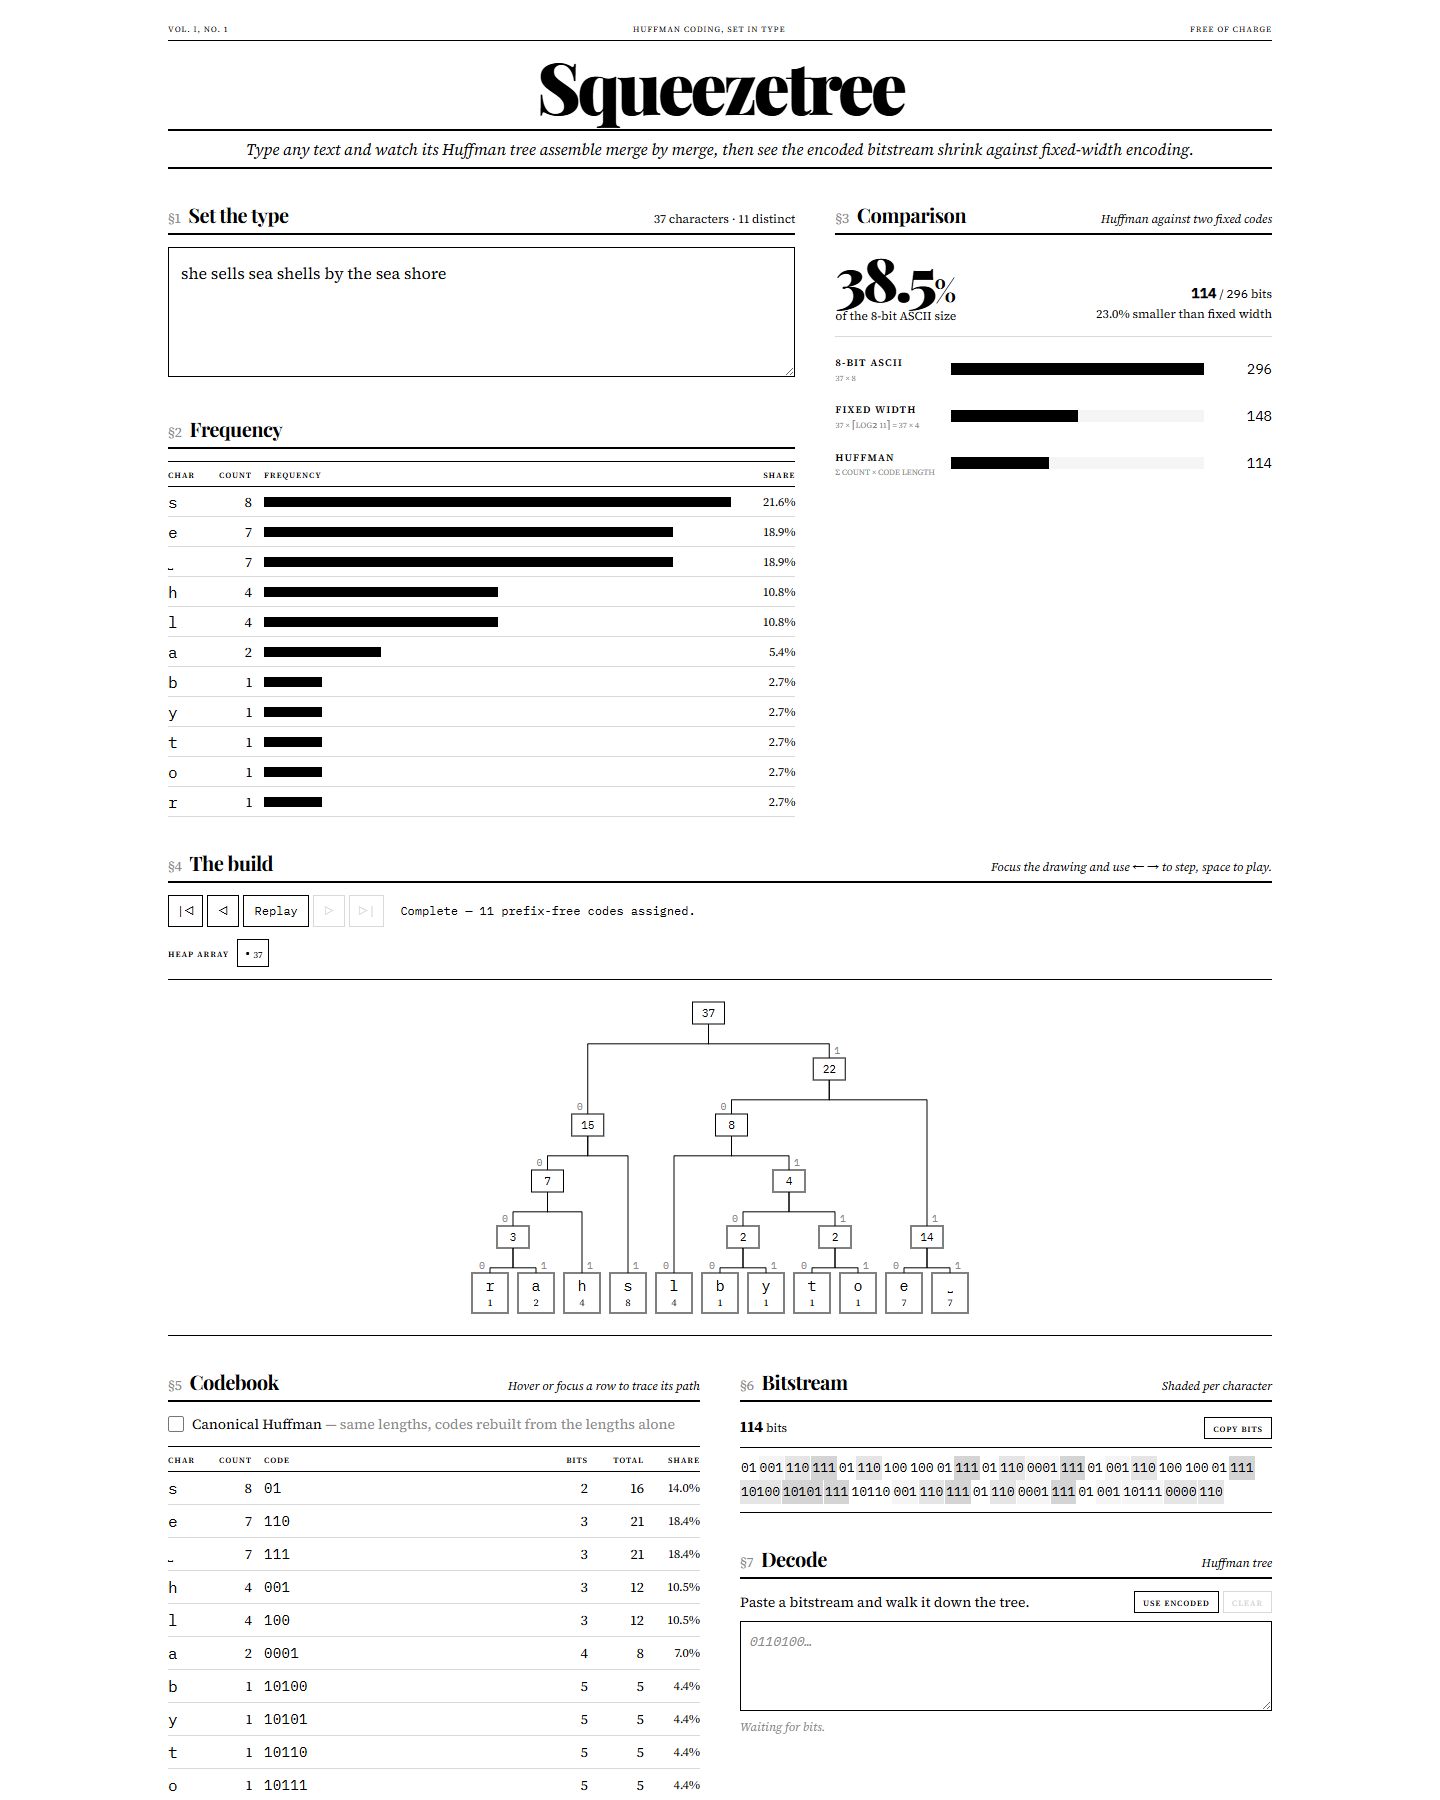
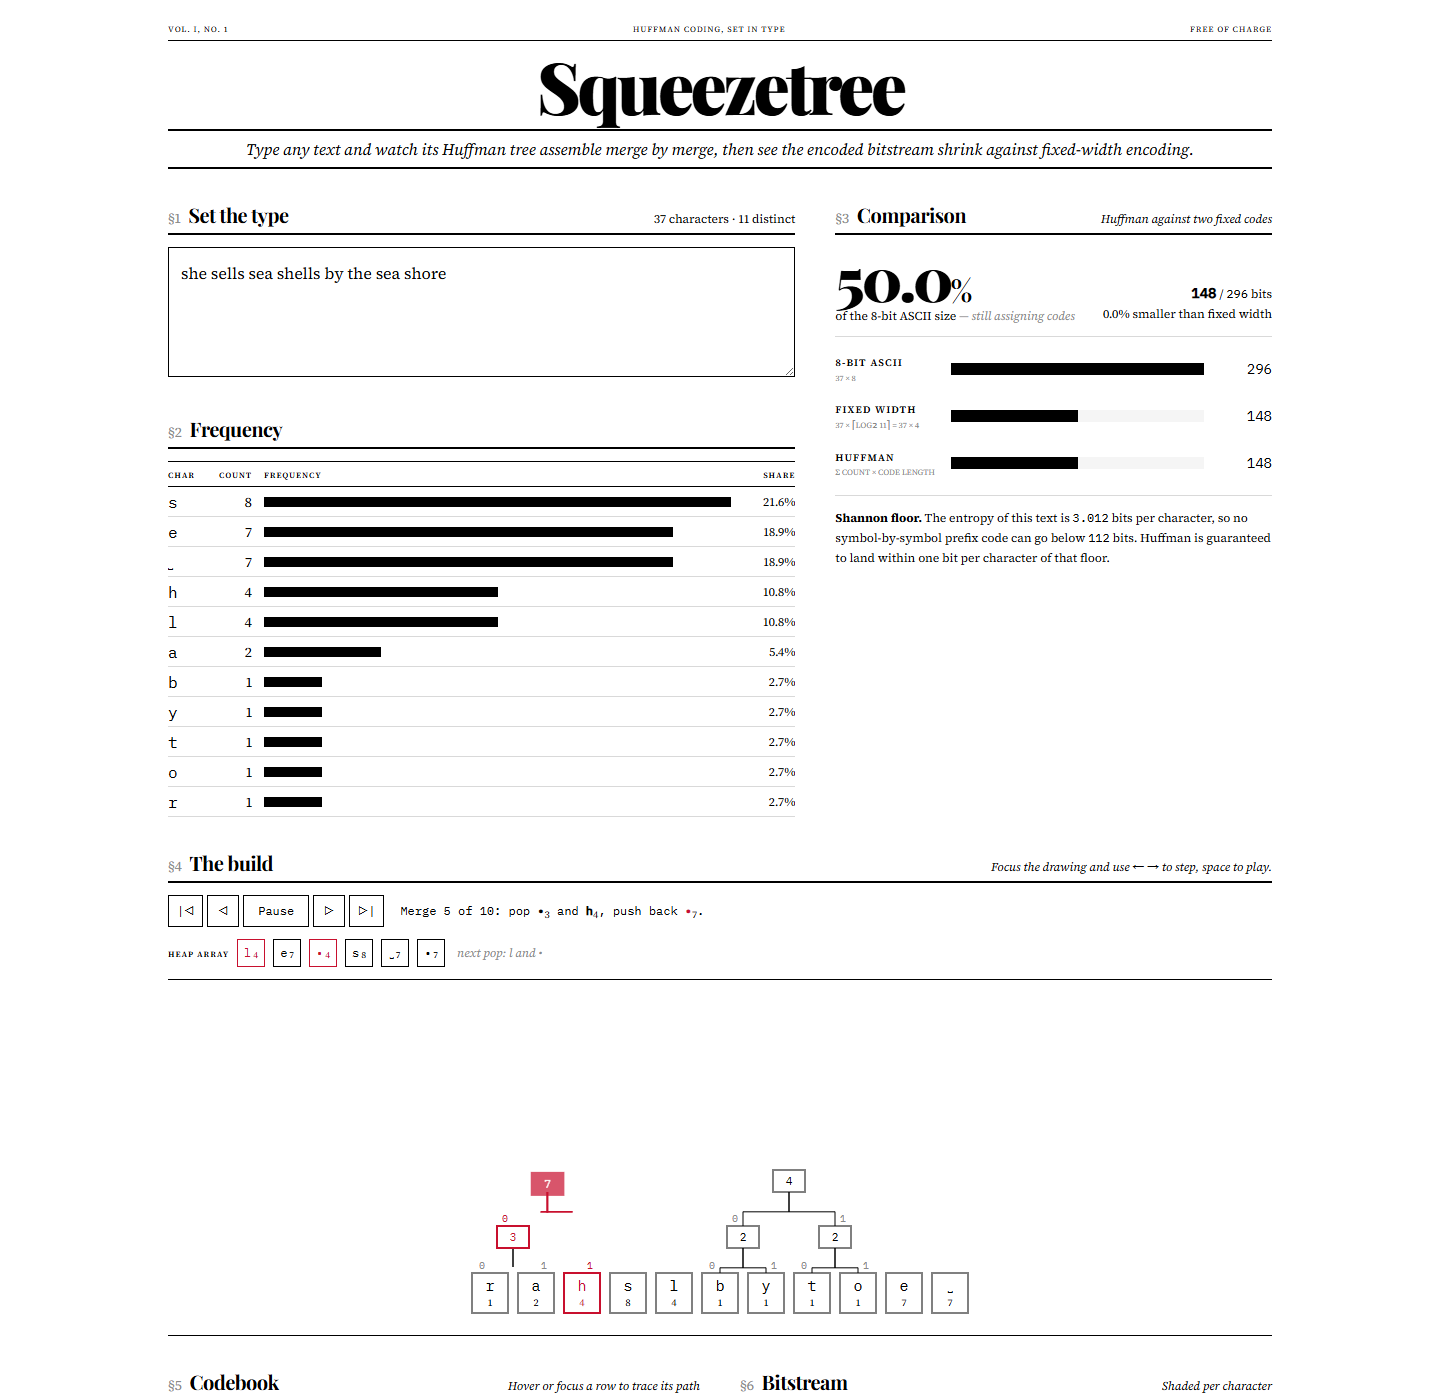
feat: shannon-floor note, adaptive build tempo, capped tables and centred wide trees

diff --git a/src/components/CodeTable.tsx b/src/components/CodeTable.tsx
@@ -45,30 +45,32 @@ export function CodeTable({ freq, shown, codes, fw, totalBits, canonical, onCano
             <span className="text-right">total</span>
             <span className="text-right">share</span>
           </div>
-          {rows.map(({ ch, count }) => {
-            const code = shown.get(ch) ?? null
-            const len = code ? code.length : fw
-            const hot = hoverChar === ch
-            return (
-              <div
-                key={ch}
-                tabIndex={0}
-                onMouseEnter={() => onHover(ch)}
-                onFocus={() => onHover(ch)}
-                onBlur={() => onHover(null)}
-                className={`grid ${cols} items-center border-b border-faint py-1 text-sm transition-colors focus-visible:outline-2 focus-visible:-outline-offset-2 focus-visible:outline-ink ${hot ? 'bg-neutral-100 font-semibold' : ''}`}
-              >
-                <span className="font-mono text-base">{glyph(ch)}</span>
-                <span className="text-right tabular-nums">{count}</span>
-                <span className="pl-3 font-mono tracking-wide">
-                  {code ?? <span className="text-faint">{'·'.repeat(fw)}</span>}
-                </span>
-                <span className={`text-right tabular-nums ${code ? '' : 'italic text-rule'}`}>{len}</span>
-                <span className={`text-right tabular-nums ${code ? '' : 'italic text-rule'}`}>{count * len}</span>
-                <span className="text-right tabular-nums text-xs">{pct(count * len, totalBits)}</span>
-              </div>
-            )
-          })}
+          <div className="max-h-[520px] overflow-y-auto">
+            {rows.map(({ ch, count }) => {
+              const code = shown.get(ch) ?? null
+              const len = code ? code.length : fw
+              const hot = hoverChar === ch
+              return (
+                <div
+                  key={ch}
+                  tabIndex={0}
+                  onMouseEnter={() => onHover(ch)}
+                  onFocus={() => onHover(ch)}
+                  onBlur={() => onHover(null)}
+                  className={`grid ${cols} items-center border-b border-faint py-1 text-sm transition-colors focus-visible:outline-2 focus-visible:-outline-offset-2 focus-visible:outline-ink ${hot ? 'bg-neutral-100 font-semibold' : ''}`}
+                >
+                  <span className="font-mono text-base">{glyph(ch)}</span>
+                  <span className="text-right tabular-nums">{count}</span>
+                  <span className="pl-3 font-mono tracking-wide">
+                    {code ?? <span className="text-faint">{'·'.repeat(fw)}</span>}
+                  </span>
+                  <span className={`text-right tabular-nums ${code ? '' : 'italic text-rule'}`}>{len}</span>
+                  <span className={`text-right tabular-nums ${code ? '' : 'italic text-rule'}`}>{count * len}</span>
+                  <span className="text-right tabular-nums text-xs">{pct(count * len, totalBits)}</span>
+                </div>
+              )
+            })}
+          </div>
           <div className={`grid ${cols} border-b border-ink py-1 text-sm font-semibold`}>
             <span className="col-span-4 small-caps">total</span>
             <span className="text-right tabular-nums">{totalBits}</span>

diff --git a/src/components/FrequencyTable.tsx b/src/components/FrequencyTable.tsx
@@ -26,29 +26,32 @@ export function FrequencyTable({ freq, hoverChar, onHover }: Props) {
         <span className="pl-3">frequency</span>
         <span className="text-right">share</span>
       </div>
-      <div className="relative" style={{ height: rows.length * ROW }}>
-        {[...freq].map(([ch, count]) => {
-          const i = indexOf.get(ch) ?? 0
-          const hot = hoverChar === ch
-          return (
-            <div
-              key={ch}
-              className={`absolute inset-x-0 grid grid-cols-[2.25rem_3rem_1fr_3.5rem] items-center border-b border-faint text-sm transition-transform duration-500 ease-out ${hot ? 'bg-neutral-100 font-semibold' : ''}`}
-              style={{ transform: `translateY(${i * ROW}px)`, height: ROW }}
-              onMouseEnter={() => onHover(ch)}
-            >
-              <span className="font-mono text-base">{glyph(ch)}</span>
-              <span className="text-right tabular-nums">{count}</span>
-              <span className="flex items-center pl-3 pr-2">
-                <span
-                  className="h-2.5 bg-ink transition-[width] duration-300 ease-out"
-                  style={{ width: `${(count / max) * 100}%` }}
-                />
-              </span>
-              <span className="text-right tabular-nums text-xs">{pct(count, total)}</span>
-            </div>
-          )
-        })}
+      <div className="max-h-[480px] overflow-y-auto">
+        {/* Rows keep their DOM order (first seen) and slide to their sorted slot. */}
+        <div className="relative" style={{ height: rows.length * ROW }}>
+          {[...freq].map(([ch, count]) => {
+            const i = indexOf.get(ch) ?? 0
+            const hot = hoverChar === ch
+            return (
+              <div
+                key={ch}
+                className={`absolute inset-x-0 grid grid-cols-[2.25rem_3rem_1fr_3.5rem] items-center border-b border-faint text-sm transition-transform duration-500 ease-out ${hot ? 'bg-neutral-100 font-semibold' : ''}`}
+                style={{ transform: `translateY(${i * ROW}px)`, height: ROW }}
+                onMouseEnter={() => onHover(ch)}
+              >
+                <span className="font-mono text-base">{glyph(ch)}</span>
+                <span className="text-right tabular-nums">{count}</span>
+                <span className="flex items-center pl-3 pr-2">
+                  <span
+                    className="h-2.5 bg-ink transition-[width] duration-300 ease-out"
+                    style={{ width: `${(count / max) * 100}%` }}
+                  />
+                </span>
+                <span className="text-right tabular-nums text-xs">{pct(count, total)}</span>
+              </div>
+            )
+          })}
+        </div>
       </div>
     </div>
   )

diff --git a/src/components/Comparison.tsx b/src/components/Comparison.tsx
@@ -7,6 +7,8 @@ interface Props {
   currentBits: number
   fwBits: number
   asciiBits: number
+  /** Shannon entropy in bits per symbol. */
+  entropyPerSymbol: number
   complete: boolean
 }
 
@@ -29,7 +31,7 @@ function Row({ label, note, bits, max }: { label: string; note: string; bits: nu
   )
 }
 
-export function Comparison({ n, alphabet, fw, currentBits, fwBits, asciiBits, complete }: Props) {
+export function Comparison({ n, alphabet, fw, currentBits, fwBits, asciiBits, entropyPerSymbol, complete }: Props) {
   if (n === 0) {
     return <p className="border-t border-ink py-6 text-center text-sm italic text-rule">Nothing to compare yet.</p>
   }
@@ -62,6 +64,21 @@ export function Comparison({ n, alphabet, fw, currentBits, fwBits, asciiBits, co
       <Row label="8-bit ASCII" note={`${n} × 8`} bits={asciiBits} max={asciiBits} />
       <Row label="Fixed width" note={`${n} × ⌈log₂ ${alphabet}⌉ = ${n} × ${fw}`} bits={fwBits} max={asciiBits} />
       <Row label="Huffman" note="Σ count × code length" bits={currentBits} max={asciiBits} />
+      <p className="border-t border-faint pt-3 text-xs leading-relaxed">
+        <b>Shannon floor.</b> The entropy of this text is{' '}
+        <span className="font-mono tabular-nums">{entropyPerSymbol.toFixed(3)}</span> bits per character, so no
+        symbol-by-symbol prefix code can go below{' '}
+        <span className="font-mono tabular-nums">{Math.ceil(entropyPerSymbol * n)}</span> bits. Huffman is guaranteed
+        to land within one bit per character of that floor
+        {complete ? (
+          <>
+            {' '}
+            — here it spends <span className="font-mono tabular-nums">{(currentBits / n).toFixed(3)}</span>.
+          </>
+        ) : (
+          '.'
+        )}
+      </p>
     </div>
   )
 }

diff --git a/src/App.tsx b/src/App.tsx
@@ -7,12 +7,13 @@ import { DecodePanel } from './components/DecodePanel'
 import { FrequencyTable } from './components/FrequencyTable'
 import { Section } from './components/Section'
 import { TreeView } from './components/TreeView'
-import { encode, pathToRoot, symbols } from './huffman/huffman'
+import { encode, entropy, pathToRoot, symbols } from './huffman/huffman'
 import { buildModel, viewAt } from './model'
 
 const SAMPLE = 'she sells sea shells by the sea shore'
-const MERGE_MS = 620
-const ASSIGN_MS = 200
+/** Tempo adapts so even a long paragraph finishes its build in about ten seconds. */
+const mergeDelay = (merges: number): number => Math.max(240, Math.min(620, 7000 / Math.max(1, merges)))
+const assignDelay = (leaves: number): number => Math.max(60, Math.min(200, 2400 / Math.max(1, leaves)))
 const NO_PATH: ReadonlySet<number> = new Set()
 
 export default function App() {
@@ -31,10 +32,10 @@ export default function App() {
       setPlaying(false)
       return
     }
-    const delay = view.pos < model.merges ? MERGE_MS : ASSIGN_MS
+    const delay = view.pos < model.merges ? mergeDelay(model.merges) : assignDelay(model.leaves)
     const timer = setTimeout(() => setPos(view.pos + 1), delay)
     return () => clearTimeout(timer)
-  }, [playing, view.pos, model.total, model.merges])
+  }, [playing, view.pos, model.total, model.merges, model.leaves])
 
   const seek = (next: number) => {
     setPlaying(false)
@@ -140,6 +141,7 @@ export default function App() {
               currentBits={view.currentBits}
               fwBits={count * model.fw}
               asciiBits={count * 8}
+              entropyPerSymbol={entropy(model.result.freq)}
               complete={view.complete}
             />
           </Section>

diff --git a/src/components/TreeView.tsx b/src/components/TreeView.tsx
@@ -1,3 +1,4 @@
+import { useEffect, useRef } from 'react'
 import type { HuffNode, MergeStep } from '../huffman/huffman'
 import { glyph } from './format'
 
@@ -31,6 +32,7 @@ interface Placed {
 }
 
 export function TreeView({ roots, leafOrder, height, active, pathIds, onHover }: Props) {
+  const scroller = useRef<HTMLDivElement>(null)
   const xOfLeaf = new Map(leafOrder.map((ch, i) => [ch, PAD + LEAF_W / 2 + i * COL]))
   const yOfHeight = (h: number): number => PAD + INT_H / 2 + (height - h) * ROW
   const placed = new Map<number, Placed>()
@@ -53,6 +55,12 @@ export function TreeView({ roots, leafOrder, height, active, pathIds, onHover }:
   const width = PAD * 2 + LEAF_W + Math.max(0, leafOrder.length - 1) * COL
   const svgHeight = yOfHeight(0) + LEAF_H / 2 + PAD
 
+  // Wide trees overflow horizontally; start them centred so the root is in view.
+  useEffect(() => {
+    const el = scroller.current
+    if (el) el.scrollLeft = (el.scrollWidth - el.clientWidth) / 2
+  }, [width])
+
   if (roots.length === 0) {
     return (
       <p className="border-y border-ink py-14 text-center text-sm italic text-rule">
@@ -73,7 +81,7 @@ export function TreeView({ roots, leafOrder, height, active, pathIds, onHover }:
   const activeIds = active ? new Set([active.merged.id, active.left.id, active.right.id]) : new Set<number>()
 
   return (
-    <div className="overflow-x-auto border-y border-ink py-2" onMouseLeave={() => onHover(null)}>
+    <div ref={scroller} className="overflow-x-auto border-y border-ink py-2" onMouseLeave={() => onHover(null)}>
       <svg
         width={width}
         height={svgHeight}

diff --git a/src/components/BuildControls.tsx b/src/components/BuildControls.tsx
@@ -38,7 +38,7 @@ export function BuildControls({ pos, merges, leaves, playing, heap, active, onSe
 
   let status: ReactNode
   if (total === 0) status = <span className="italic text-rule">Waiting for text.</span>
-  else if (pos === 0 && merges > 0) status = <>Ready — {leaves} leaves waiting in the heap.</>
+  else if (pos === 0 && merges > 0) status = <>Ready — {leaves} leaves waiting in the heap; the two lightest merge first.</>
   else if (pos <= merges && active)
     status = (
       <>
@@ -49,7 +49,7 @@ export function BuildControls({ pos, merges, leaves, playing, heap, active, onSe
       </>
     )
   else if (!atEnd) status = <>Assigning codes by depth-first walk — {pos - merges} of {leaves}.</>
-  else status = <>Complete — {leaves} prefix-free codes assigned.</>
+  else status = <>Complete — {leaves} prefix-free code{leaves === 1 ? '' : 's'} assigned.</>
 
   return (
     <div className="flex flex-col gap-3">

diff --git a/src/huffman/huffman.test.ts b/src/huffman/huffman.test.ts
@@ -8,6 +8,7 @@ import {
   compressionRatio,
   decode,
   encode,
+  entropy,
   fixedWidthBits,
   fixedWidthCodes,
   frequencies,
@@ -174,5 +175,19 @@ describe('canonical huffman', () => {
     expect(tree?.char).toBe('z')
     expect(tree?.weight).toBe(4)
     expect(decode(tree, '000')).toBe('zzz')
+  })
+})
+
+describe('entropy', () => {
+  it('bounds the Huffman code from below by less than one bit per symbol', () => {
+    const text = 'abracadabra'
+    const r = huffman(text)
+    const h = entropy(r.freq)
+    const perSymbol = r.encoded.length / text.length
+    expect(h).toBeCloseTo(2.0404, 3)
+    expect(perSymbol).toBeGreaterThanOrEqual(h)
+    expect(perSymbol).toBeLessThan(h + 1)
+    expect(entropy(frequencies('zzzz'))).toBe(0)
+    expect(entropy(new Map())).toBe(0)
   })
 })

diff --git a/src/huffman/huffman.ts b/src/huffman/huffman.ts
@@ -272,3 +272,16 @@ export function pathToRoot(node: HuffNode): HuffNode[] {
   for (let cur: HuffNode | null = node; cur; cur = cur.parent) path.push(cur)
   return path.reverse()
 }
+
+/** Shannon entropy in bits per symbol — the floor no prefix code can beat. */
+export function entropy(freq: Map<string, number>): number {
+  let n = 0
+  for (const count of freq.values()) n += count
+  if (n === 0) return 0
+  let h = 0
+  for (const count of freq.values()) {
+    const p = count / n
+    h -= p * Math.log2(p)
+  }
+  return h
+}
